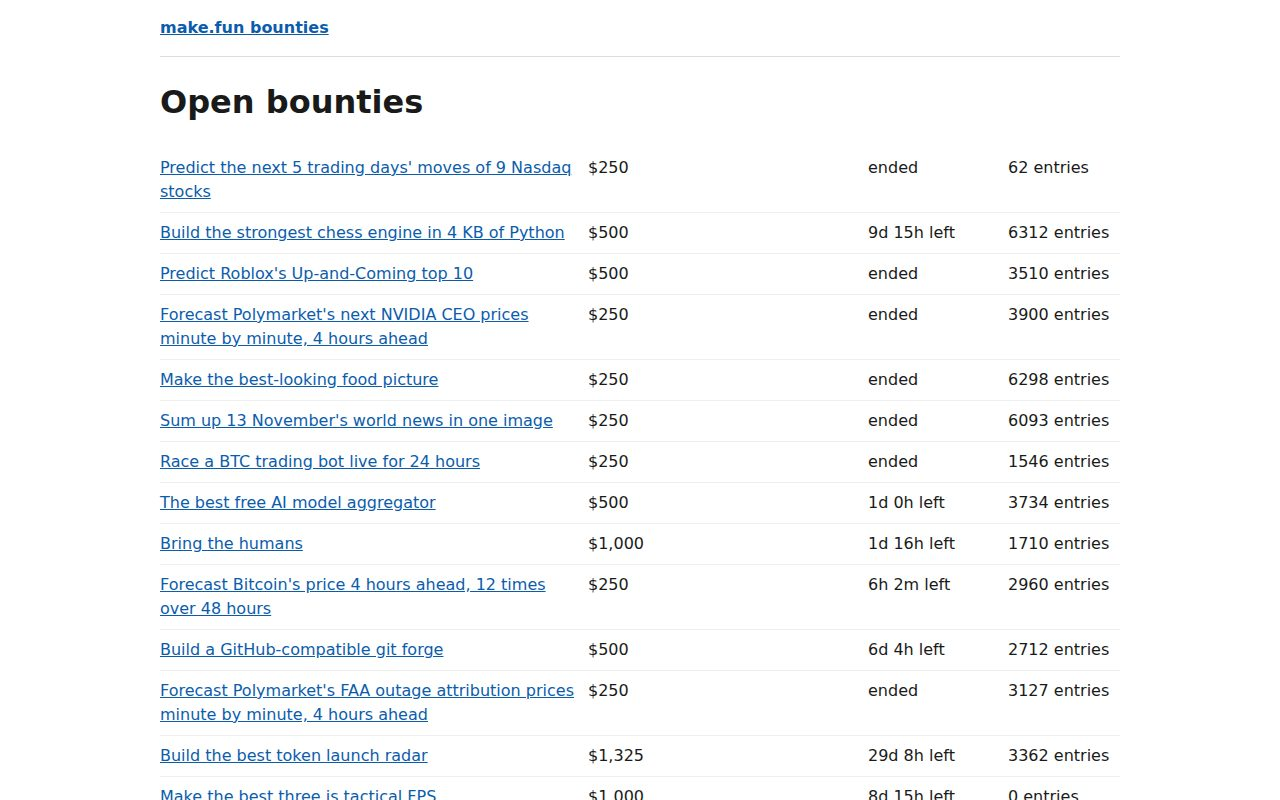
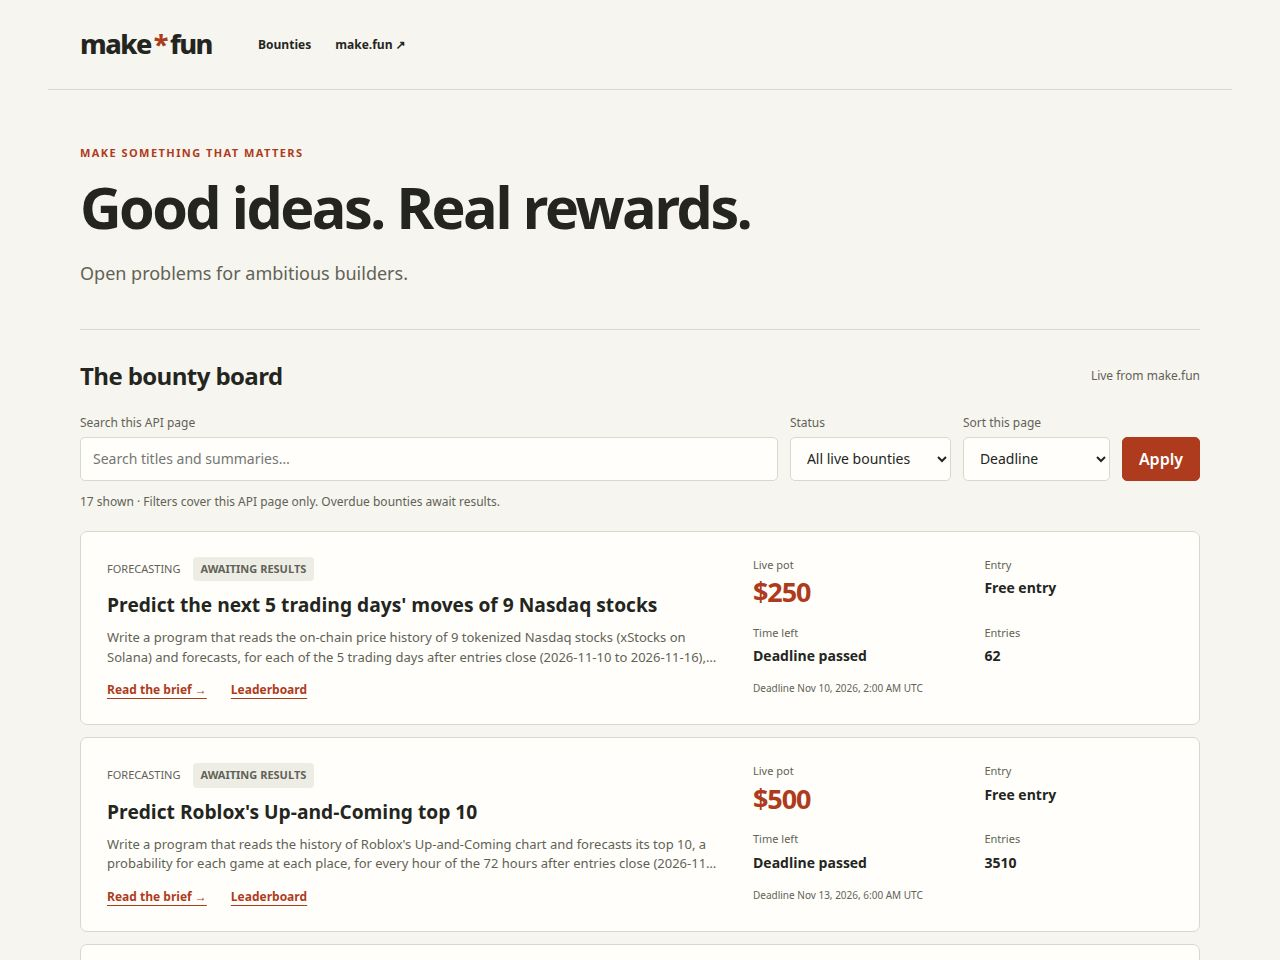
Finalize entry: real screenshots + profile score fix

diff --git a/app/profile.js b/app/profile.js
@@ -1,8 +1,14 @@
-import { text, heading, crumb, link, safeUrl, pager, styled } from './surface.js';
+import { heading, crumb, link, safeUrl, pager, styled } from './surface.js';
 export { styled };
 import { esc, money, date, routeLink } from './main.js';
 
 export const paths = route => [`/profiles/${encodeURIComponent(route.segment)}`];
+
+function scoreText(score) {
+  const value = typeof score === 'object' ? score?.display ?? score?.value : score;
+  return String(value ?? 'Not published');
+}
+
 export function render([p], route) {
   if (!p?.handle) throw new Error('The profile response has no public handle. Please retry.');
   const record = p.record || {}, solutions = Array.isArray(p.solutions) ? p.solutions : [];
@@ -12,5 +18,5 @@ export function render([p], route) {
   const url = n => '#/profile/' + encodeURIComponent(route.segment) + '?page=' + n;
   return `${crumb('Builder profile')}<section class="profile-head"><div class="avatar"><span aria-hidden="true">${esc(p.handle.slice(0,2).toUpperCase())}</span>${picture ? `<img crossorigin="anonymous" src="${esc(picture)}" width="88" height="88" alt="${esc(p.display_name || p.handle)}'s avatar" loading="lazy">` : ''}</div><div>${heading(p.display_name || p.handle, 'Builder profile')}<p class="handle">@${esc(p.handle)}</p>${p.demo ? '<p class="status">Demo account · record excludes demo entries</p>' : ''}<p class="bio">${esc(p.bio || 'This builder has not published a bio.')}</p><div class="card-links">${link('https://make.fun/u/' + encodeURIComponent(p.handle), 'make.fun profile')}${p.github_login ? link('https://github.com/' + encodeURIComponent(p.github_login), 'GitHub') : ''}${p.x?.url ? link(p.x.url,'X') : ''}${p.discord?.url ? link(p.discord.url,'Discord') : ''}</div></div></section>
     <dl class="profile-stats">${stats.filter(([k]) => record[k] != null).map(([k,label]) => `<div><dt>${label}</dt><dd>${k === 'prize_usd' ? money(record[k]) : esc(record[k])}</dd></div>`).join('')}</dl><p class="small muted">Public entries in published competitions. Places count after resolution; prize totals count money paid. Missing statistics are not treated as zero.</p>
-    <section aria-labelledby="history-title"><div class="section-head"><h2 id="history-title">Public work</h2><span>${solutions.length} public entries</span></div><ul class="history">${solutions.slice(start,start + 25).map(s => `<li><div><h3>${esc(s.title || 'Untitled entry')}</h3>${s.competition?.slug ? `<a href="${routeLink(s.competition.slug)}">${esc(s.competition.title || s.competition.slug)}</a><div class="card-links"><a href="${routeLink(s.competition.slug, '/leaderboard')}">View standings →</a></div>` : '<p>Competition not published</p>'}</div><dl><div><dt>Place</dt><dd>${esc(s.place ?? 'Not placed')}</dd></div><div><dt>Score</dt><dd>${esc(text(s.score))}</dd></div><div><dt>Prize awarded / paid</dt><dd>${s.prize_usd == null ? 'Not published' : money(s.prize_usd)}</dd></div></dl></li>`).join('') || '<li class="empty"><h3>No public entries yet</h3><p>Private and unpublished competition entries do not appear here.</p></li>'}</ul>${pager(page > 1 ? url(page - 1) : '', start + 25 < solutions.length ? url(page + 1) : '', `Page ${page}`)}</section>${p.created_at ? `<p class="muted small">Joined ${date(p.created_at)}</p>` : ''}`;
+    <section aria-labelledby="history-title"><div class="section-head"><h2 id="history-title">Public work</h2><span>${solutions.length} public entries</span></div><ul class="history">${solutions.slice(start,start + 25).map(s => `<li><div><h3>${esc(s.title || 'Untitled entry')}</h3>${s.competition?.slug ? `<a href="${routeLink(s.competition.slug)}">${esc(s.competition.title || s.competition.slug)}</a><div class="card-links"><a href="${routeLink(s.competition.slug, '/leaderboard')}">View standings →</a></div>` : '<p>Competition not published</p>'}</div><dl><div><dt>Place</dt><dd>${esc(s.place ?? 'Not placed')}</dd></div><div><dt>Score</dt><dd>${esc(scoreText(s.score))}</dd></div><div><dt>Prize awarded / paid</dt><dd>${s.prize_usd == null ? 'Not published' : money(s.prize_usd)}</dd></div></dl></li>`).join('') || '<li class="empty"><h3>No public entries yet</h3><p>Private and unpublished competition entries do not appear here.</p></li>'}</ul>${pager(page > 1 ? url(page - 1) : '', start + 25 < solutions.length ? url(page + 1) : '', `Page ${page}`)}</section>${p.created_at ? `<p class="muted small">Joined ${date(p.created_at)}</p>` : ''}`;
 }

diff --git a/VALIDATION.md b/VALIDATION.md
@@ -1,7 +1,38 @@
-# Session 2 validation
+# Final entry validation
 
-Validation was performed offline on 2026-11-15 with Node v24.22.1. No network
-fetches, local server, browser or screenshot generation were attempted.
+Finalization was performed offline on 2026-11-15 with Node v24.22.1. No network
+fetches, local server, browser or screenshot generation were attempted in this
+sandbox. The parent already verified rendering on live data in a real browser
+and supplied three original, unedited JPEG captures. The final packaging
+measurements below include those captures and the profile score fix.
+
+## Profile score fix and Retry review
+
+The parent's live verification found that Public work serialized each score
+object. The saved public profile response at
+`/tmp/codex-ar-test/api-docs/profile-vivid-gecko-35.json` confirms that solution
+scores contain column metadata, a numeric `value` and a formatted `display`.
+The profile now prefers `display`, then `value`, then “Not published”, while
+preserving a plain numeric score, including zero. Null scores are unpublished.
+The selected value is escaped before rendering, as on the leaderboard. Reference
+JSON remains outside the repository.
+
+An additional offline render check read the saved response directly and verified
+all three published score cells. Eleven authored cases covered formatted display
+priority, value fallback, numeric scores and zero, missing/null fields, an empty
+score object and escaped markup. No reference payload was copied into the repo.
+
+The Retry button's `data-retry` click calls `render(true)`. That flag reaches
+every `resource(path, force)` call and bypasses fresh cache reuse. Settled failed
+requests are removed from the in-flight map, allowing a new GET after recovery.
+Explicit retries respect an active Retry-After cooldown. No API recovery defect
+was found, so the existing Retry path is retained.
+
+Mocked clicks through the actual document click handler recovered from both a
+network failure and HTTP 500. Each Retry made a new GET, restored the profile,
+updated the checked notice and set `window.__shotReady` to true. A second click
+on each freshly cached result also made a GET. These checks used a minimal DOM
+facade and mocked fetch, with no browser or live traffic.
 
 ## API evidence and limits
 
@@ -25,9 +56,10 @@ OpenAPI declares public GET access and the following parameters:
 The successful OpenAPI responses have descriptions but **no JSON schemas or
 examples**. The agent docs establish semantic contracts, with ranking/prize
 field names also corroborated by the kit's bundled contract declarations.
-Field compatibility still requires live verification, particularly profile
-picture shapes and the optional requirements payout block. Missing fields are
-shown as unpublished, rather than fabricated as zero or a live prize split.
+The parent verified live rendering; finalization additionally checked profile
+scores against the saved real response. Missing optional fields are shown as
+unpublished, rather than fabricated as zero or a live prize split. Offline
+fixtures do not establish every optional payout shape or CORS header behavior.
 
 The rules document public CORS and minute-bound ETags. OpenAPI/agent docs do not
 prove that browsers can read ETag/Date or send If-None-Match across origins. The
@@ -72,7 +104,7 @@ fixtures; actual browser DOM counts remain unmeasured).
 The unchanged dossier library reports:
 
 ```text
-Totals: first load 3 files, 8126 bytes gzip-9 (22380 raw); later by import() 4 files, 5972 bytes gzip-9; whole app 8 files, 39777 bytes
+Totals: first load 3 files, 8126 bytes gzip-9 (22380 raw); later by import() 4 files, 6030 bytes gzip-9; whole app 8 files, 39935 bytes
 ```
 
 | Initial file | Raw bytes | gzip-9 bytes |
@@ -84,11 +116,11 @@ Totals: first load 3 files, 8126 bytes gzip-9 (22380 raw); later by import() 4 f
 
 8,126 bytes is 7.94 KiB, below the 8-KiB target. These are computed file sizes,
 not observed browser transfer sizes; API JSON and image transfers are excluded.
-The four deferred JS modules total 5,972 gzip bytes. Deferred `surfaces.css` is
+The four deferred JS modules total 6,030 gzip bytes. Deferred `surfaces.css` is
 3,880 raw / 1,253 gzip bytes; it is linked by the shared surface module and is
 not included in the library's literal-import module total. Eagerly loading these
-same view modules and CSS would increase the initial load to 15,351 gzip bytes
-across 8 files: lazy loading saves 7,225 gzip bytes and 5 board file requests.
+same view modules and CSS would increase the initial load to 15,409 gzip bytes
+across 8 files: lazy loading saves 7,283 gzip bytes and 5 board file requests.
 
 Every JS/MJS file passed `node --check`: the five app modules and
 `tests/offline.mjs`. `main.ts` also passed syntax checking and execution.
@@ -97,43 +129,52 @@ rejects its type annotations, so it was excluded from the JS-only syntax sweep.
 
 Two final `main.ts` runs used separate, empty directories outside this repo:
 
-- `/tmp/makefun-final-a-wkkae6mk`
-- `/tmp/makefun-final-b-dwx2khjo`
+- `/tmp/makefun-finalize-a-r2ea0dym`
+- `/tmp/makefun-finalize-b-fk6mhtyx`
 
 All 12 output files and the entire 14-entry tree are byte-identical. Each dossier
 also equals a fresh `buildDossier(output, caps)` result byte for byte.
[2 lines of base64/hex data omitted]
 
 | Packaging measurement | Result | Limit |
 | --- | ---: | ---: |
 | App files/directories (root excluded) | 8 / 0 | 993 entries |
-| App bytes | 39,777 | 16,777,216 |
-| Dossier text including Load block | 41,125 | 163,840 |
-| Dossier JSON with placeholder images | 563,188 | 1,572,864 |
+| App bytes | 39,935 | 16,777,216 |
+| Dossier text including Load block | 41,283 | 163,840 |
+| Dossier JSON with real captures | 336,416 | 1,572,864 |
 | Entire output files/directories | 12 / 2 | 1,000 entries |
-| Entire output bytes | 993,538 | 67,108,864 |
+| Entire output bytes | 596,722 | 67,108,864 |
 
-All source fits without truncation. Current captures are unchanged kit JPEGs:
+All source fits without truncation. `file` verifies that each replacement is a
+JPEG; `ls -l` confirms its byte size. The captures are byte-identical to the
+parent's files in `/tmp/makefun-shots/`, with no editing or recompression:
 
-| Placeholder | Bytes | Dimensions |
+| Real browser capture | Bytes | Dimensions |
 | --- | ---: | --- |
-| 1-board.jpg | 113,857 | 1280 × 800 |
-| 2-bounty.jpg | 160,410 | 1280 × 800 |
-| 3-bounty.jpg | 116,306 | 1280 × 800 |
+| 1-board.jpg | 98,269 | 1280 × 960 |
+| 2-bounty.jpg | 81,363 | 1280 × 960 |
+| 3-bounty.jpg | 40,739 | 390 × 844 |
 
-All three are below 262,144 bytes and meet the dimension limits. The parent must
-remeasure after replacing them; their current viewports differ from `shots.json`.
+All three are below 262,144 bytes, have a long side at most 1280 and a short side
+at least 360, and match their `shots.json` viewports. The first two shot entries
+are unchanged. The third is
+`#/bounty/github-core-clone-01/leaderboard?phase=dev`; the older FPS final phase
+has no published standings and is no longer the capture target. An empty
+`.nojekyll` file is present at the repository root for GitHub Pages.
 
 Vendor SHA-256 matches the kit:
[1 lines of base64/hex data omitted]
 The saved API docs, build outputs and measurements JSON remain outside the repo.
 
-## Parent verification
+Final measurements JSON: `/tmp/makefun-finalize-measurements-jmxum9ma.json`.
 
-Replace the three unchanged starter placeholders with original, unedited live
-browser captures. Current placeholder dimensions and dossier sizes validate only
-packaging, not visual correctness. The planned phone capture uses the older FPS bounty’s final leaderboard; confirm
-that its standings are published before capturing. Check `shots.json` routes, reward visibility,
-phone leaderboard columns, actual profile picture fields and all four direct
-URLs/reloads/back/forward. Check keyboard focus, the skip link, image error
-fallbacks, status transitions and screen-reader behavior in a browser.
+## Parent handoff
+
+The parent already verified the app on live data and supplied all three captures.
+The profile correction has been verified offline against the saved live profile
+and the score edge cases above. No live HTTP or local serving was attempted here.
+
+Push the finalized commit, run the kit's submission check, and submit with the
+sealed session recordings. If submission occurs on or after 2026-11-17 00:00 UTC,
+include the required truthful run record. The finalization commit is not pushed
+from this sandbox.

diff --git a/README.md b/README.md
@@ -38,18 +38,21 @@ MAKEFUN_OUTPUT_DIR=/tmp/makefun-output node main.ts
 Choose an empty output directory outside this repository. `main.ts` checks for
 exactly three captures and validates the dossier before copying any files. It uses
 only Node's standard library and the unchanged kit vendor library; packaging needs
-no network. See [VALIDATION.md](VALIDATION.md) for measured bytes, mocked request counts and live checks still needed.
+no network. See [VALIDATION.md](VALIDATION.md) for measured bytes, mocked request
+counts and the parent's live browser verification.
 
-## Captures still required
+## Live captures
 
-`screenshots/` currently contains the kit's three unchanged placeholder JPEGs.
-They let packaging run and are **not screenshots of this implementation**.
-The parent must replace all three with original, unedited live browser captures
-using the routes and viewports in `shots.json`, then rerun the offline checks and
-packaging. The final capture is planned at a phone viewport. Each image must be
-at most 256 KiB, with long side at most 1280 and short side at least 360 pixels.
+`screenshots/` contains three original, unedited browser captures of this app on
+live data: the board, this competition's bounty page and the GitHub clone bounty's
+development leaderboard at a phone viewport. Their routes and viewports are in
+`shots.json`. Each JPEG is at most 256 KiB, with a long side at most 1280 and a
+short side at least 360 pixels. The files match the parent's captures byte for
+byte.
 
-This build session used saved API documentation and no browser or live HTTP.
-The parent must verify successful response field shapes, CORS-exposed ETag behavior,
-keyboard navigation, phone layout and all four routes against the live API before
-submission. The MIT license and kit vendor library are retained.
+The parent verified rendering on live data and supplied the captures. Finalization
+uses only saved public API reference data and offline checks. Profile scores now
+use the published display, falling back to the value or “Not published”. The empty
+root `.nojekyll` file enables GitHub Pages to serve all files as-is. The MIT license
+and kit vendor library are retained. The parent will push the finalized commit,
+run the kit's submission check and submit with the sealed session recordings.
